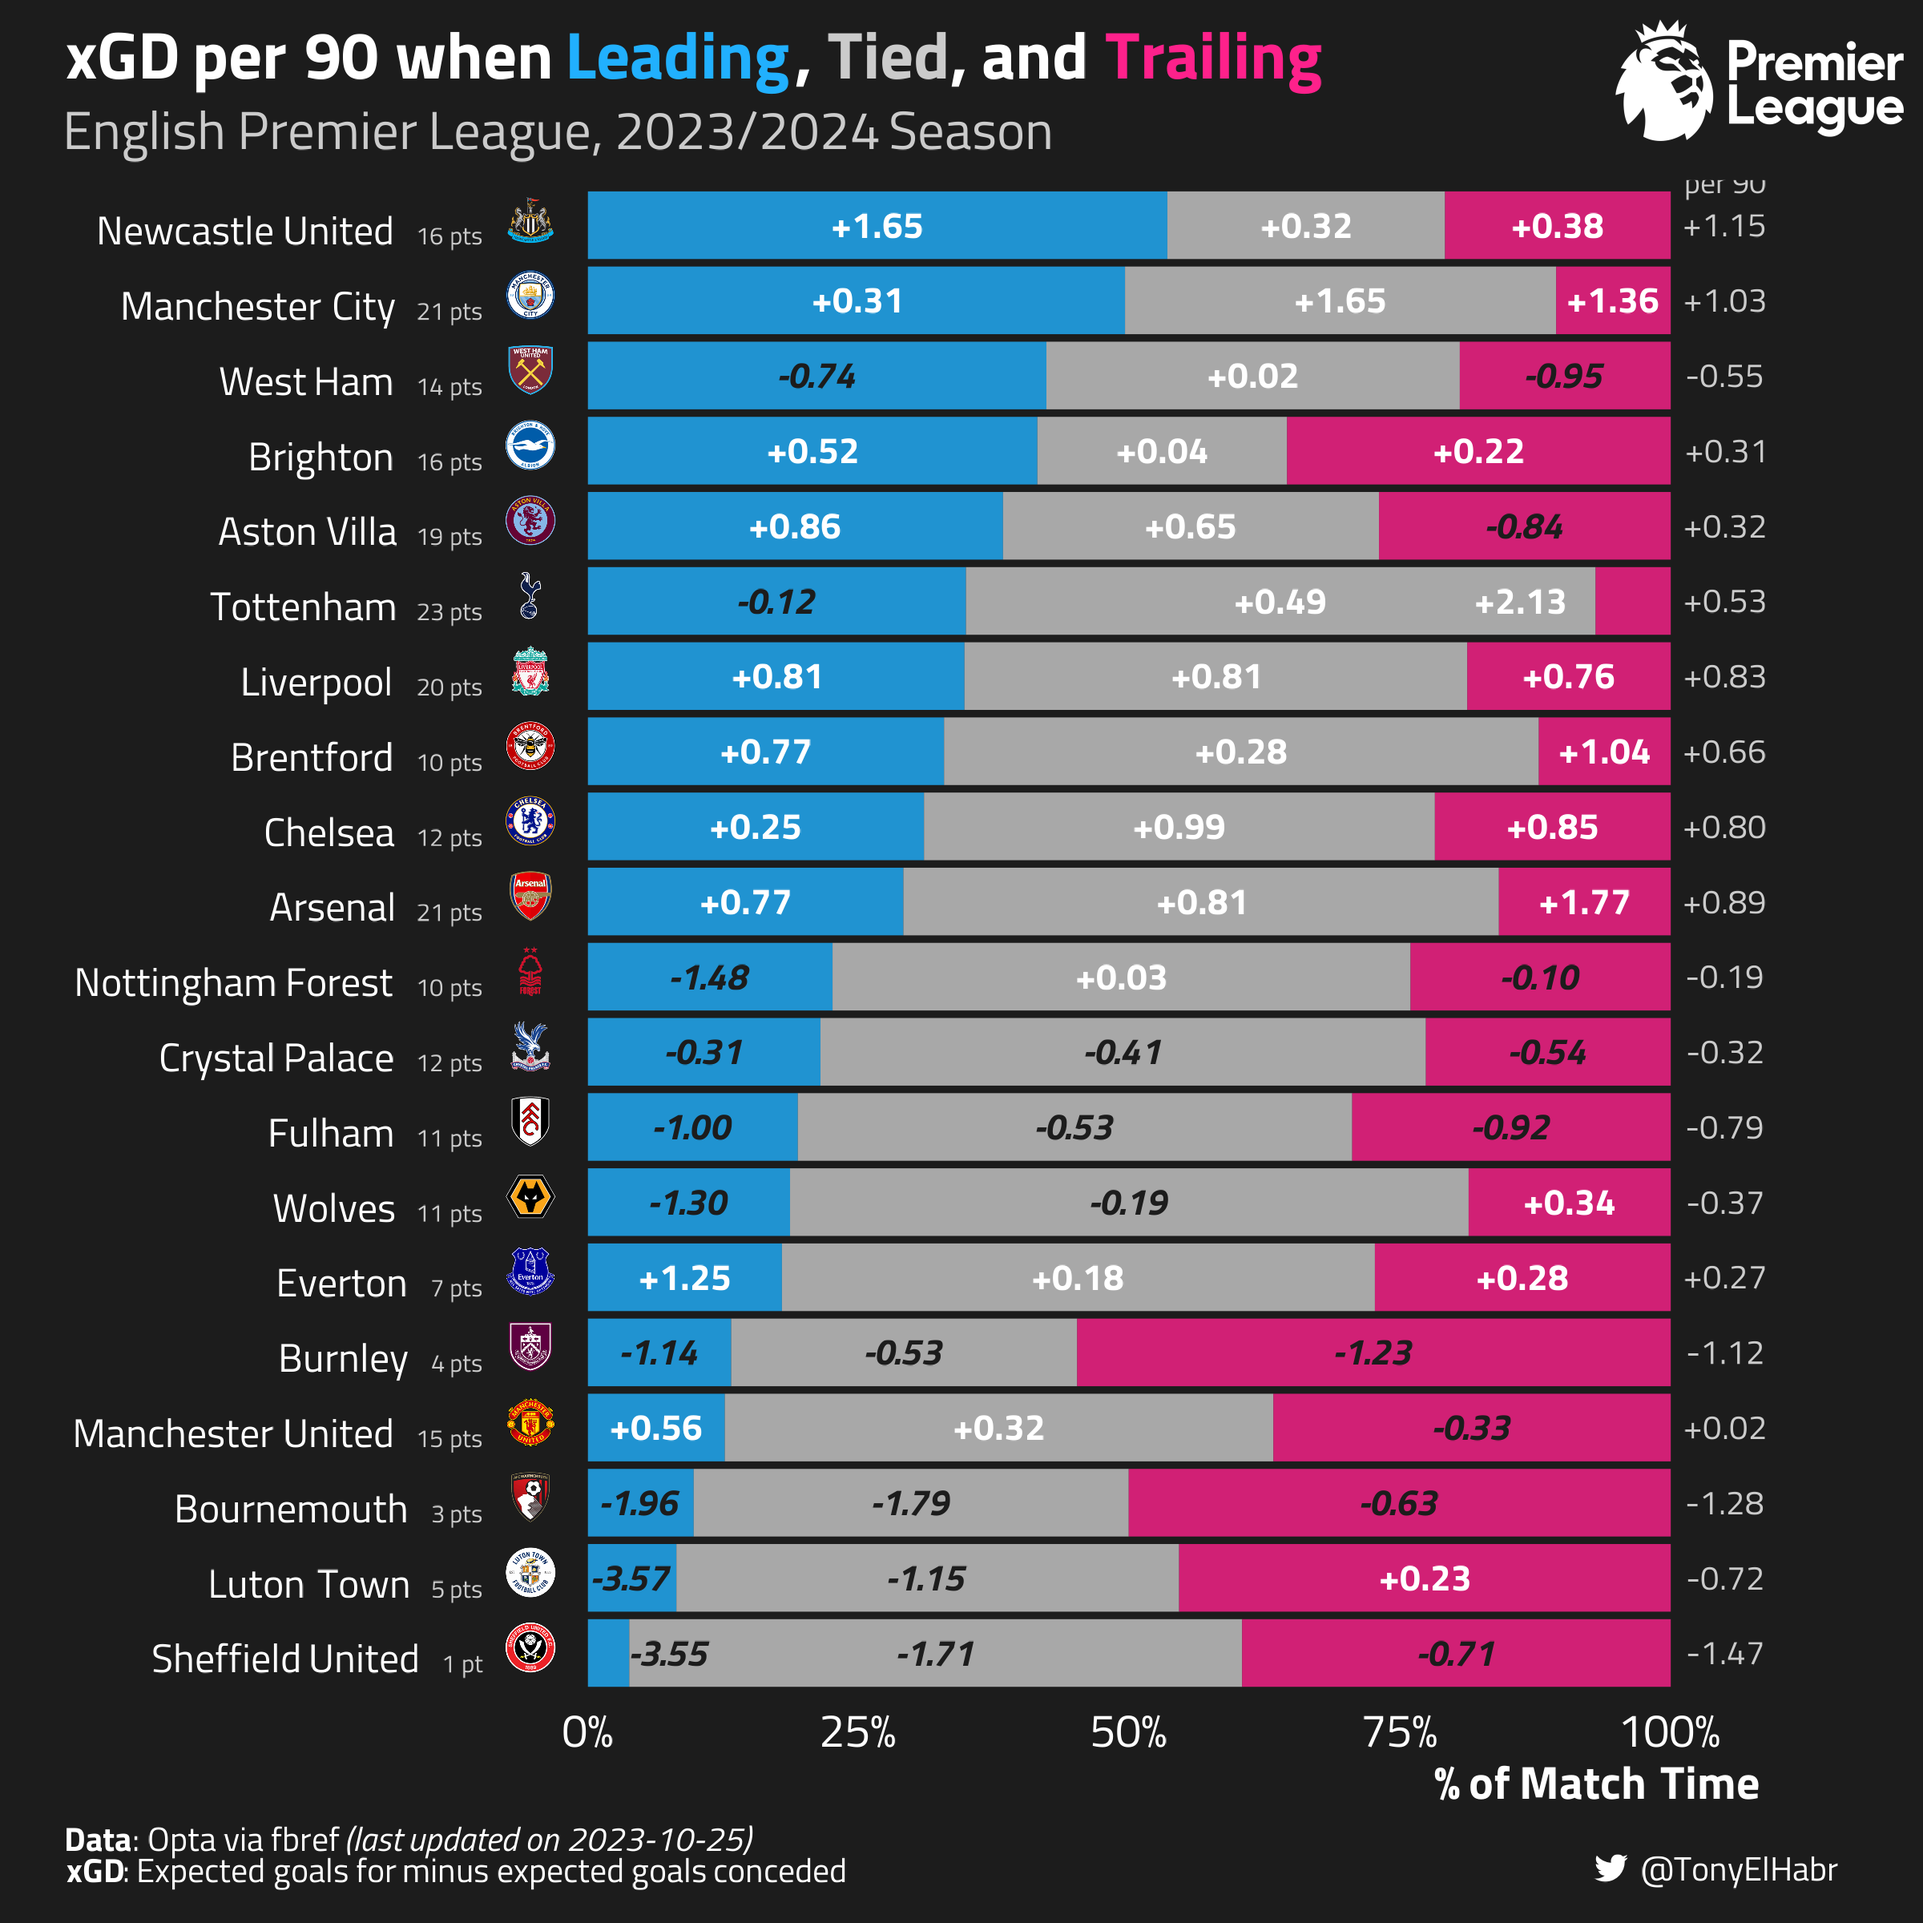
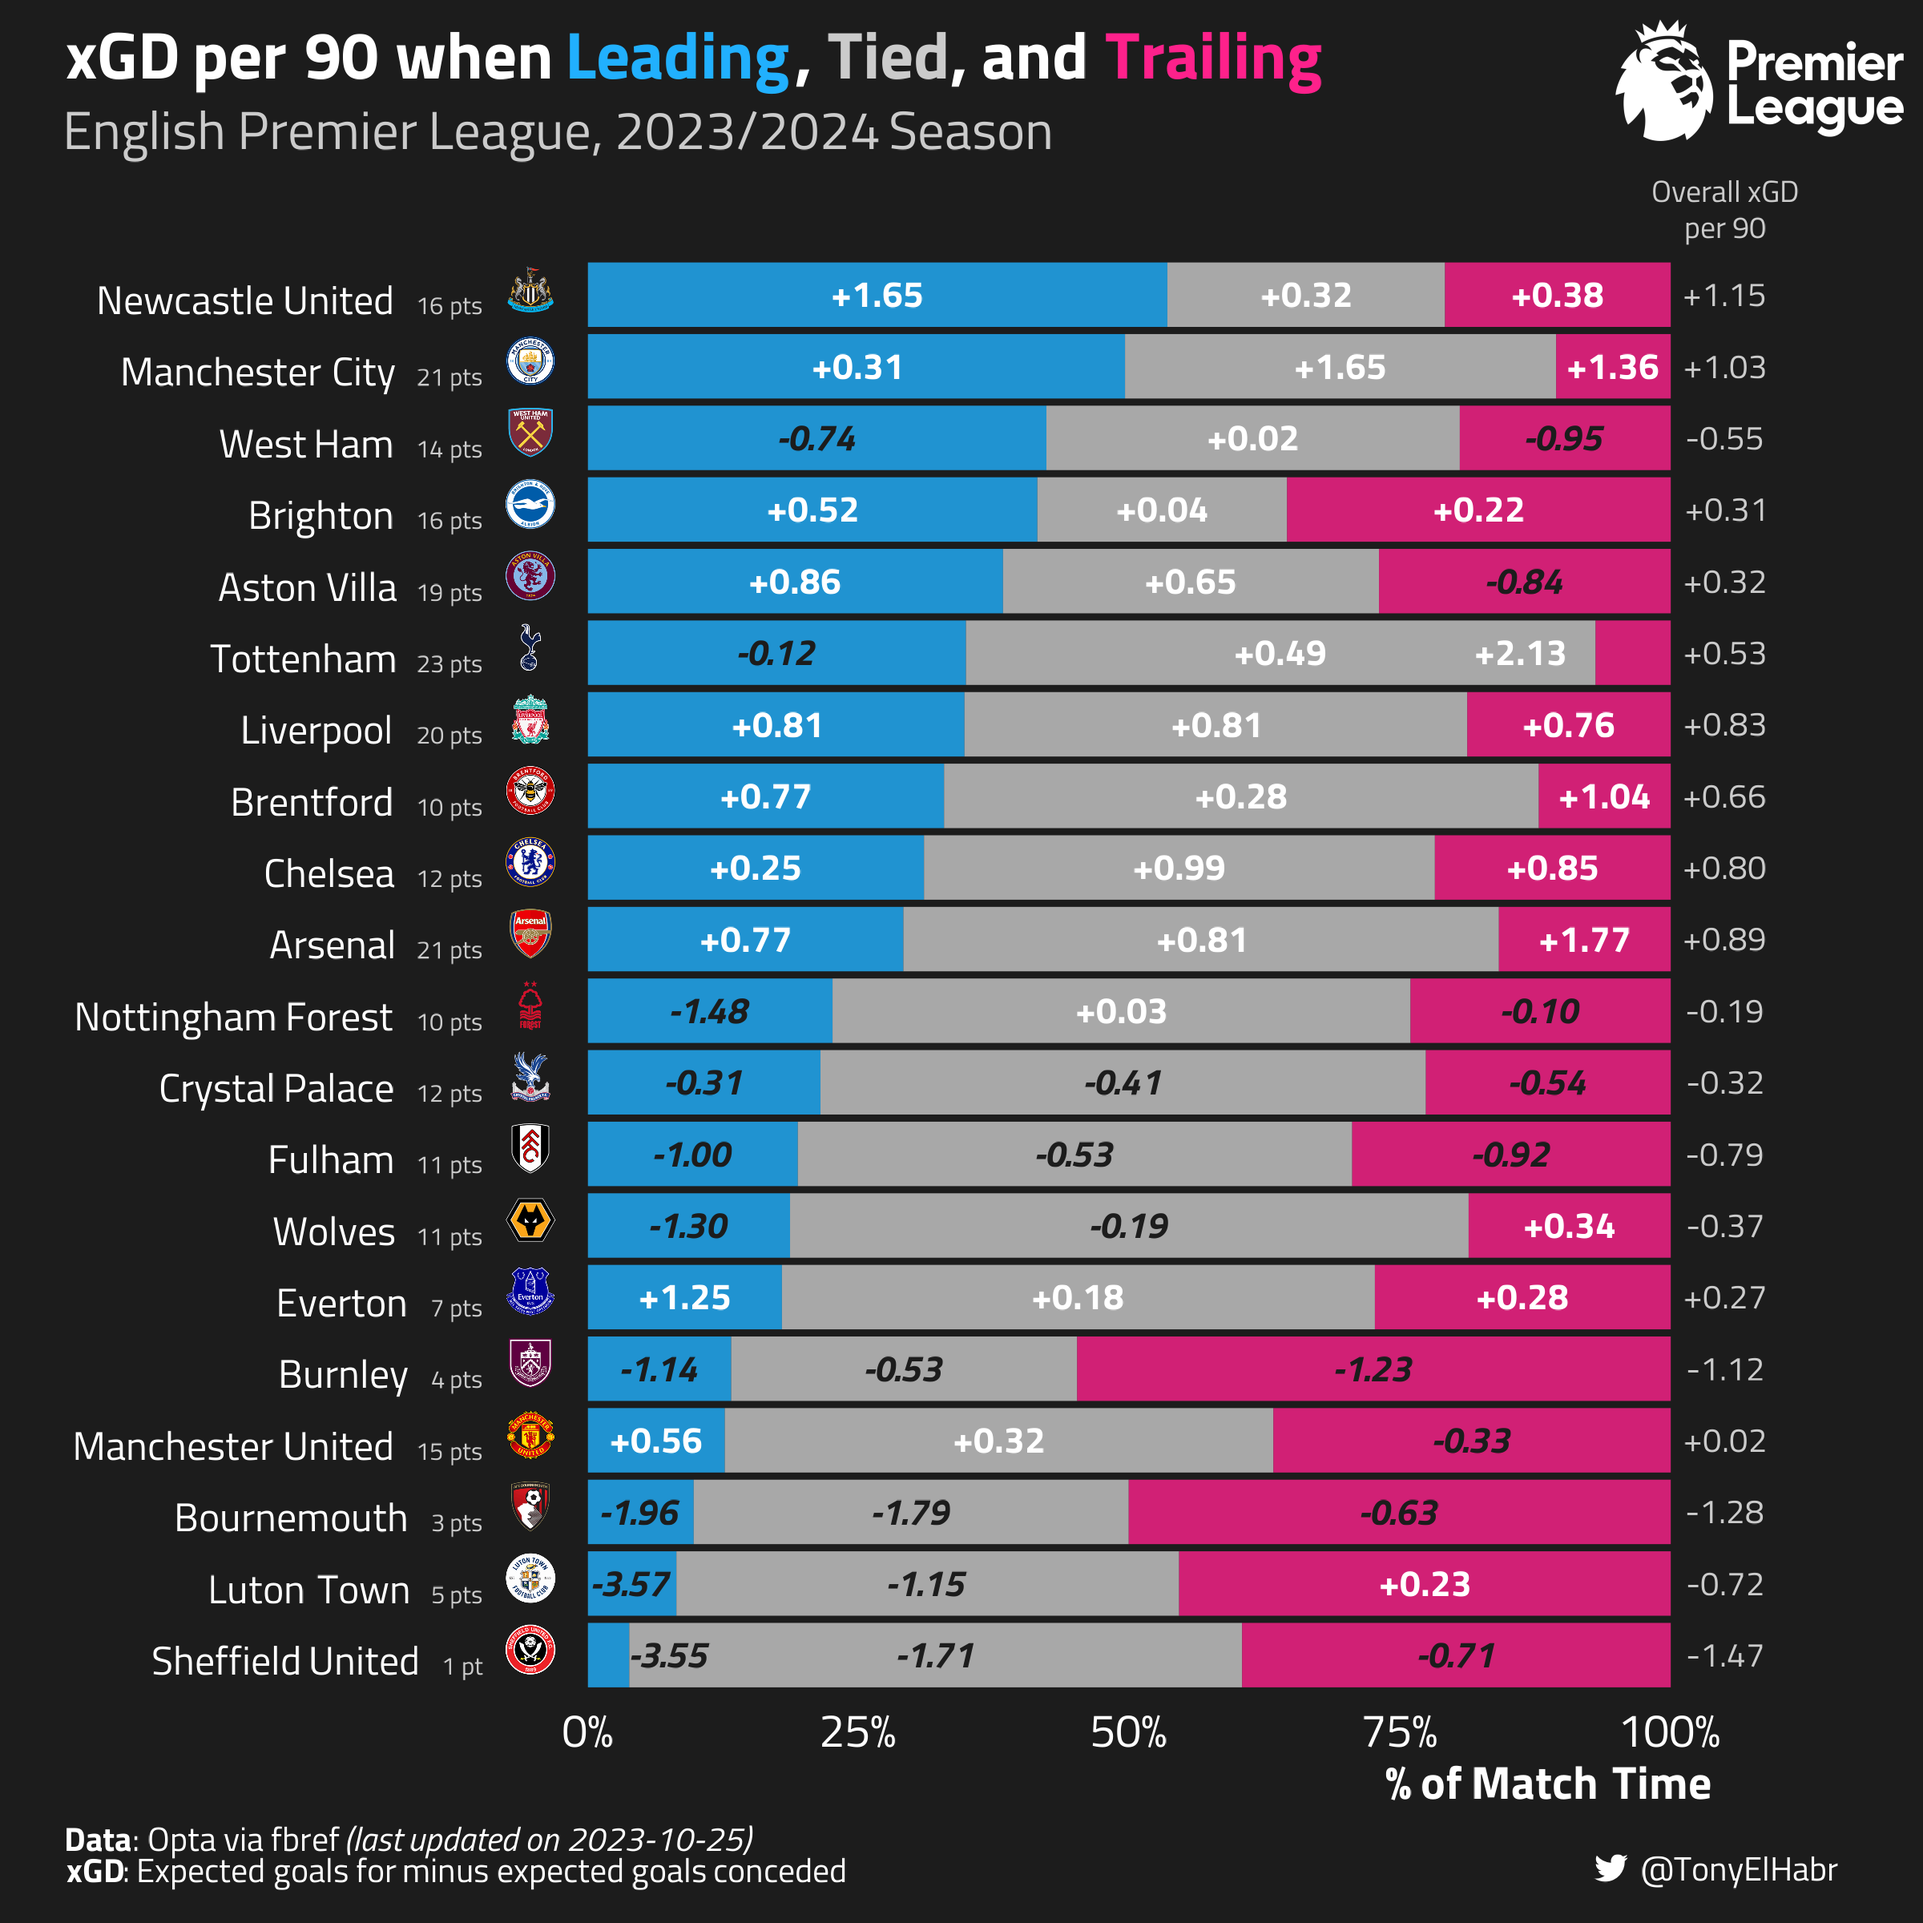
clean up plot, update readme

Changed region(s): [[0.0312, 0.0938, 0.9375, 0.875], [0.7188, 0.9062, 0.9062, 0.9375]]

diff --git a/README.md b/README.md
@@ -4,13 +4,27 @@ title: README
 
 This repo stores my code and plots for sports-related plots. Any "small" data is stored in the repo. Otherwise, it's saved locally and git-ignored here.
 
-The projects are listed in reverse chronological order. A skipped number corresponds to an idea that I scraped.
+The projects are listed in reverse chronological order. A skipped number corresponds to an idea that I did not end up finishing.
 
-# 74. 2023 Women's World Cup xG Calibration
+# 77. [2023/24 EPL xGD by Game State](https://tonyelhabr.rbind.io/posts/fbref-gamestate-expected-goal-difference/)
+
+![](77-gamestate_xgd/2023-epl-xgd-p90.png)
+
+# 76. 2023 (Personal) Fantasy Football League Luck
+
+![](76-2023_ff_luck/agg-scores-plot.png)
+
+![](76-2023_ff_luck/all-play-record-2023.png)
+
+# 75. [Soccer Meta-Analytics](https://tonyelhabr.rbind.io/posts/soccer-meta-analytics/)
+
+![](https://tonyelhabr.rbind.io/posts/soccer-meta-analytics/discrimination-vs-stability.png)
+
+# 74. [2023 Women's World Cup xG Calibration](https://gist.github.com/tonyelhabr/335b54fb1d937c0f8a817defe2c5ab6b)
 
 ![](74-2023_womens_world_cup_xg/wwc_2023_xg_source_calibration.png "Comparison of Opta's and StatsBomb's xG model calibration for non-penalty shots in the 2023 FIFA Womens' World Cup")
 
-# 73. "Exceeding Expected Goals" Replication
+# 73. ["Exceeding Expected Goals" Replication](https://tonyelhabr.rbind.io/posts/xg-ratio-empirical-bayes/)
 
 ![](73-exceeding_expected_goals_replication/beyond-replication.png "Top 20 shooting overperformers in the EPL, 2021/22 and 2022/23 seasons")
 
@@ -22,7 +36,7 @@ The projects are listed in reverse chronological order. A skipped number corresp
 
 ![](73-exceeding_expected_goals_replication/adj-g-xg-ratio-stability.png "Year-over-year stability of adjusted G/xG for the MLS 2013-2023 seasons")
 
-# 72. 2023 Women's World Cup
+# 72. [2023 Women's World Cup](https://gist.github.com/tonyelhabr/b058e49f0d8d6a0005f1ae982df8f8c4)
 
 ![](72-2023_womens_world_cup/top_distance_high_speed_sprinting.png "Most distance (m) covered while high speed sprinting, FIFA Women's World Cup 2023")
 
